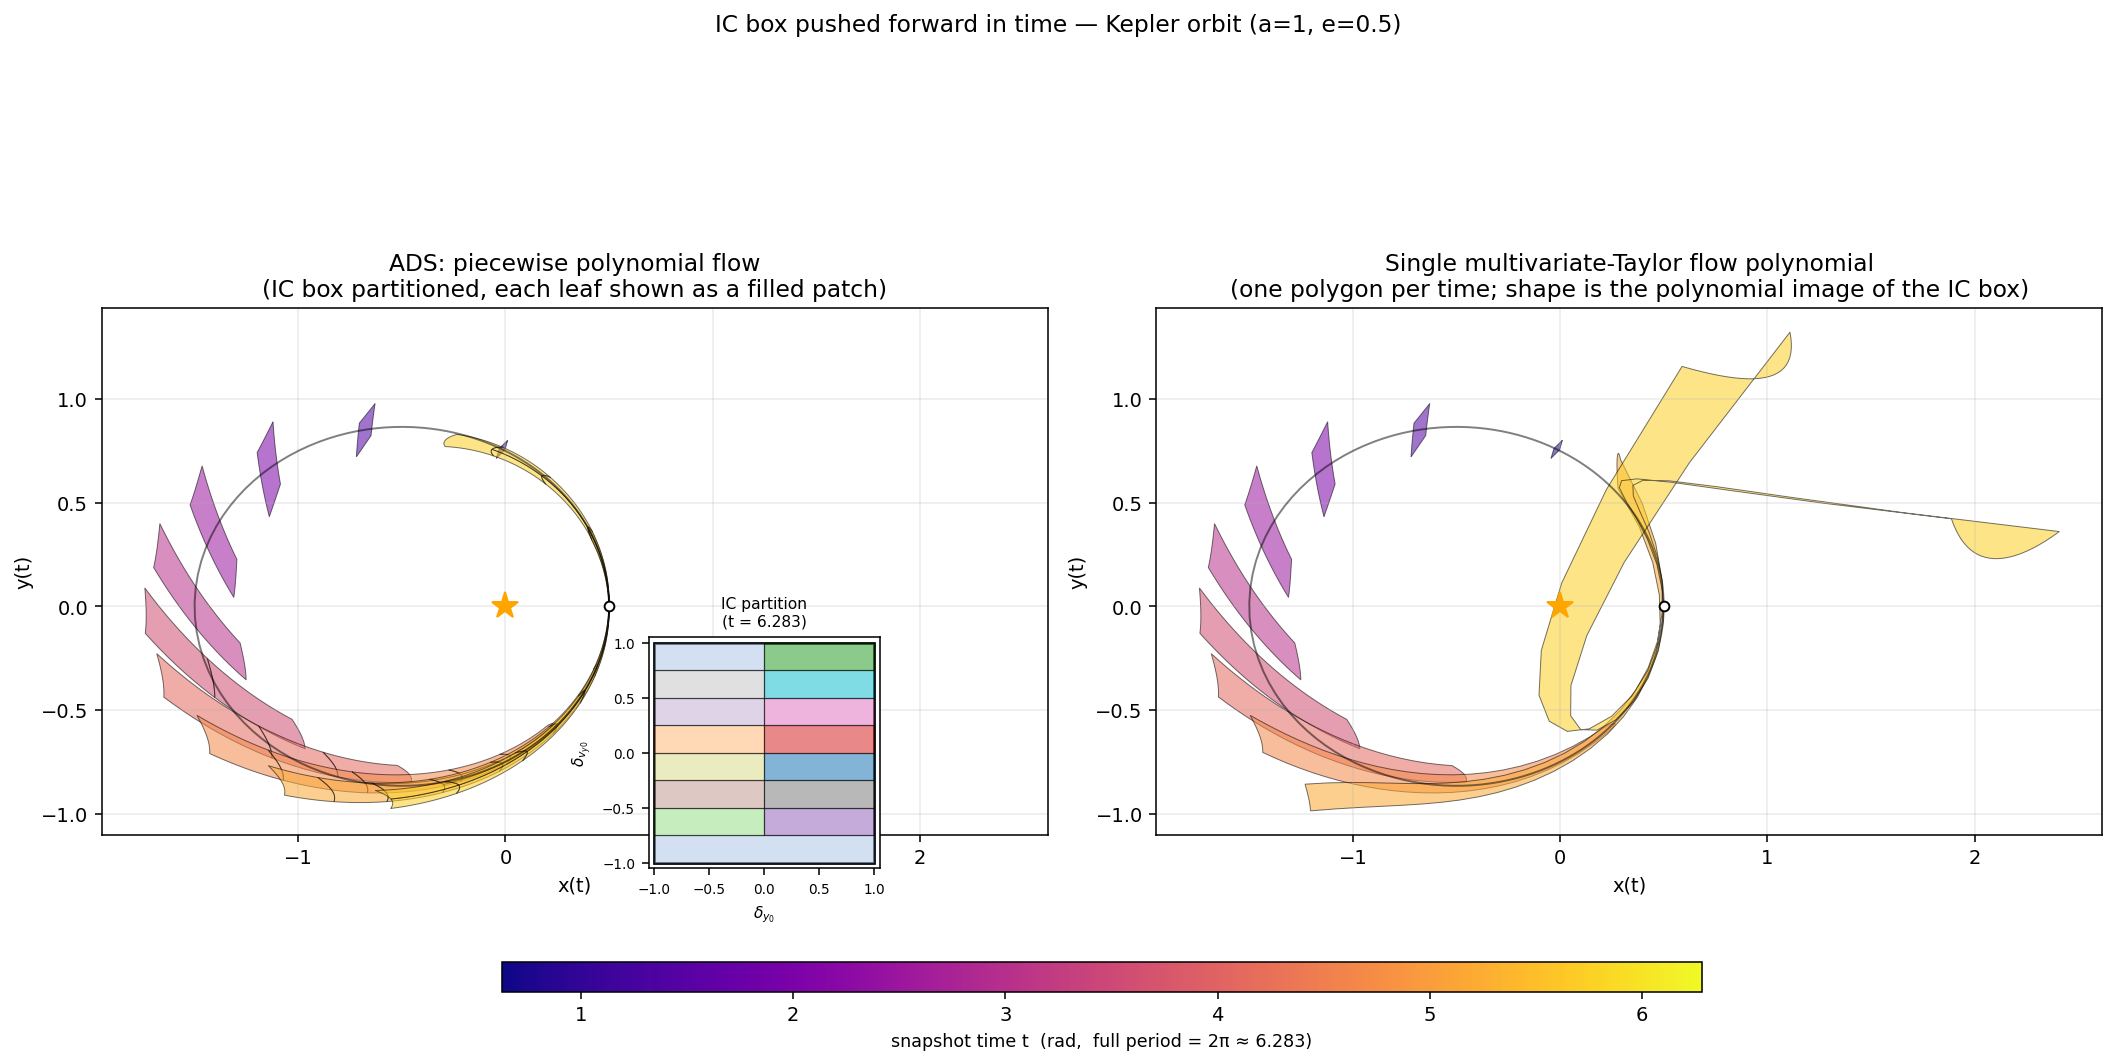
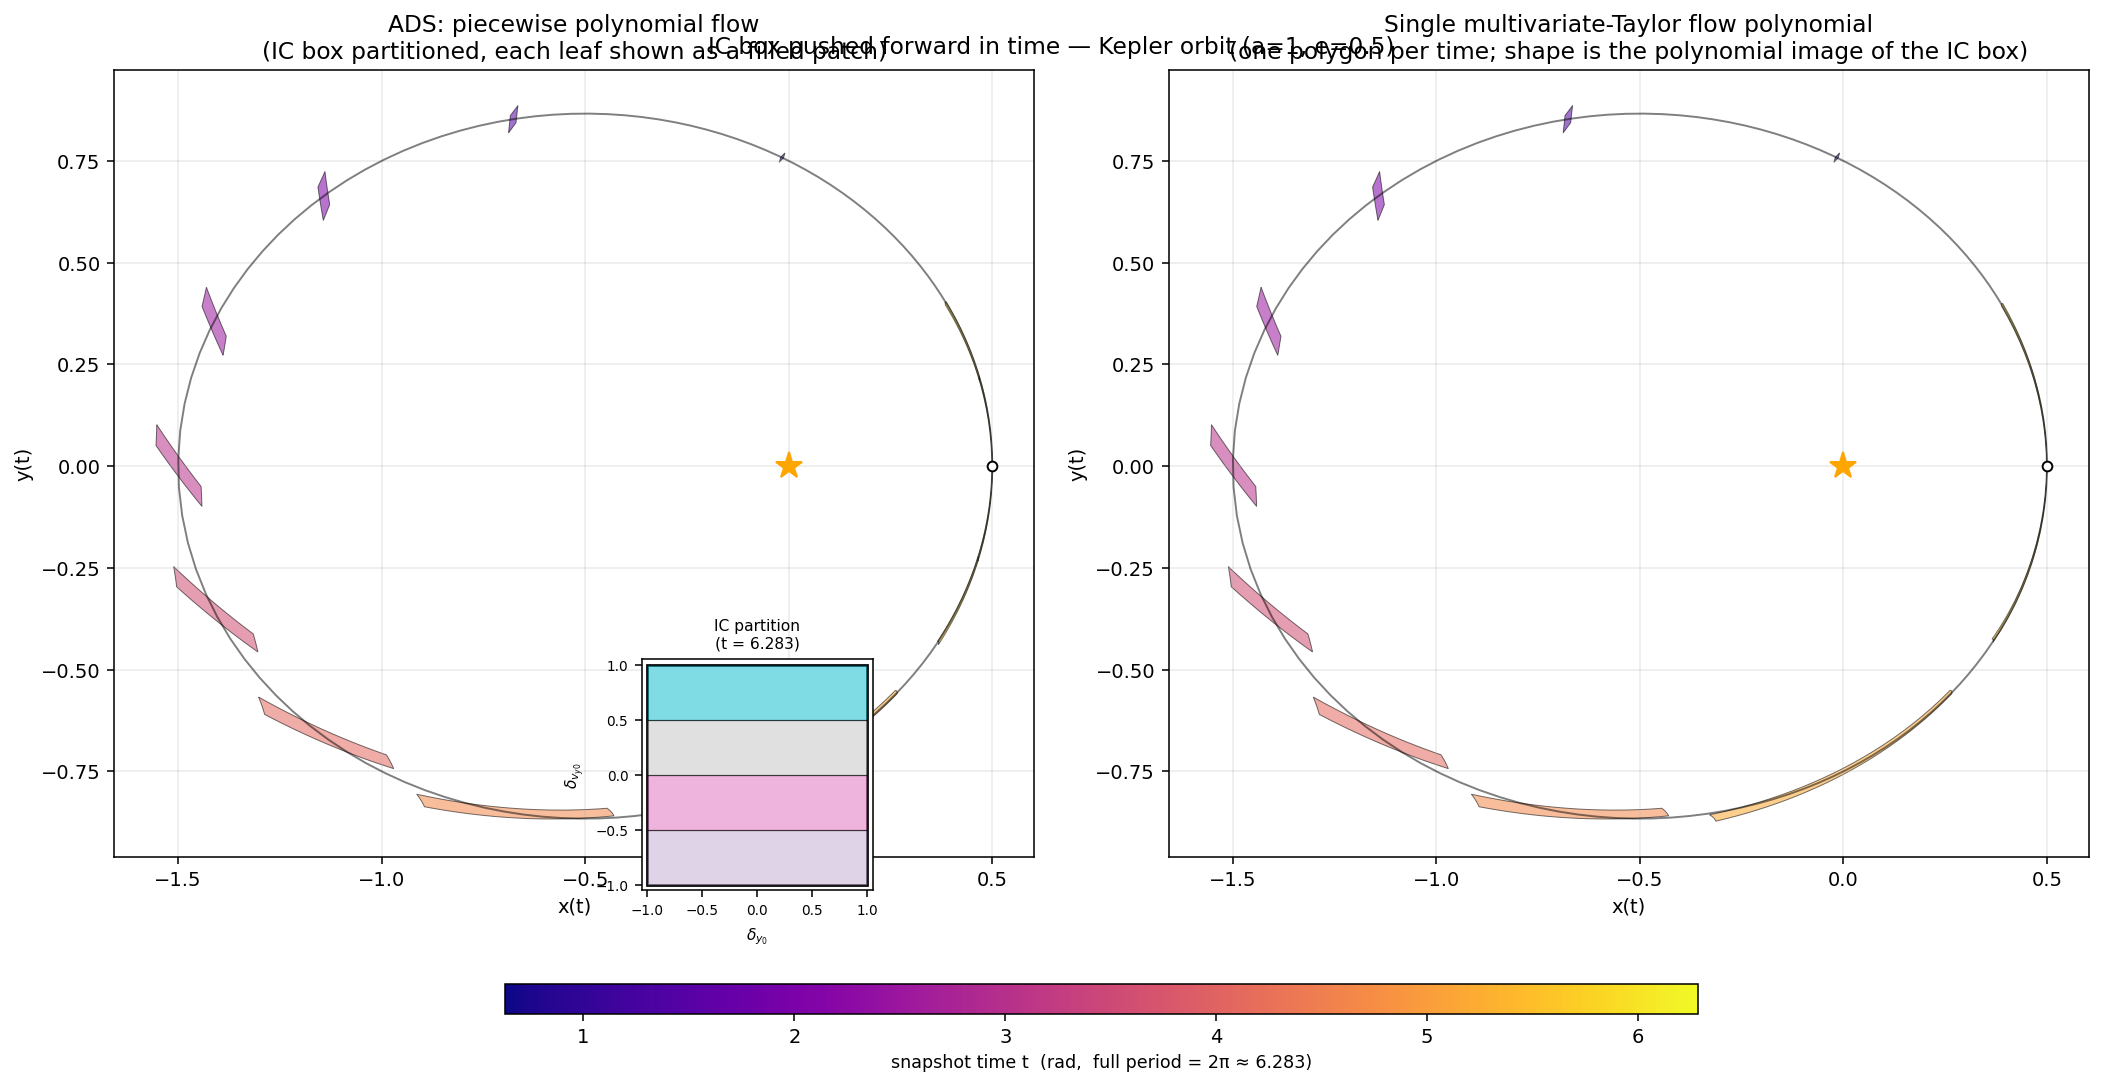
Auto-zoom phase-space panels in plotBoxOnSplit; refresh figures
The pushforward of the small 2-D IC box returns close to periapsis
after one orbital period, so a fixed full-orbit aspect-equal view made
the polygons invisible.  The phase-space and converged-ADS panels now
auto-zoom on the polygon data with a 10% margin and only draw the
primary marker if (0, 0) is inside the window.  The reference orbit
is still drawn as context where it intersects the window.

Also re-runs the example over one full orbit and re-renders all three
figures (ellipticOrbit.png, ellipticBoxEvolution.png,
ellipticBoxOnSplit.png).

diff --git a/examples/plotBoxOnSplit.py b/examples/plotBoxOnSplit.py
@@ -114,13 +114,32 @@ def main() -> None:
     ax_ic.grid(True, alpha=0.25)
 
     # ----- Phase-space view -----------------------------------------------
-    ax_ph.plot(ref["x"], ref["y"], "k-", lw=1.0, alpha=0.5, label="reference orbit")
-    ax_ph.plot([0.0], [0.0], "*", color="orange", ms=14, zorder=5, label="primary")
-
     flow_poly = _polygon(flow_img)
+    all_x = [flow_poly[:, 0]]
+    all_y = [flow_poly[:, 1]]
+    for sid in split_ids:
+        sel = split_ph["split_idx"] == sid
+        for role in ("parent", "left", "right"):
+            r = sel & (split_ph["role"] == role)
+            if np.any(r):
+                poly = _polygon(split_ph[r])
+                all_x.append(poly[:, 0])
+                all_y.append(poly[:, 1])
+    all_x = np.concatenate(all_x)
+    all_y = np.concatenate(all_y)
+    pad_x = 0.10 * (all_x.max() - all_x.min() + 1e-12)
+    pad_y = 0.10 * (all_y.max() - all_y.min() + 1e-12)
+    xlim = (all_x.min() - pad_x, all_x.max() + pad_x)
+    ylim = (all_y.min() - pad_y, all_y.max() + pad_y)
+
+    # Reference orbit + primary only if visible in the zoomed window.
+    ax_ph.plot(ref["x"], ref["y"], "k-", lw=1.0, alpha=0.4, label="reference orbit")
+    if xlim[0] <= 0.0 <= xlim[1] and ylim[0] <= 0.0 <= ylim[1]:
+        ax_ph.plot([0.0], [0.0], "*", color="orange", ms=14, zorder=5, label="primary")
+
     ax_ph.fill(flow_poly[:, 0], flow_poly[:, 1],
                facecolor="lightgrey", edgecolor="dimgrey",
-               alpha=0.35, linewidth=0.8, zorder=1,
+               alpha=0.45, linewidth=0.9, zorder=1,
                label="single flow polygon (no split)")
 
     for idx, sid in enumerate(split_ids):
@@ -132,12 +151,14 @@ def main() -> None:
             poly = _polygon(split_ph[r])
             if role == "parent":
                 ax_ph.plot(poly[:, 0], poly[:, 1], color=colors[idx],
-                           linewidth=0.8, alpha=0.7, zorder=2)
+                           linewidth=1.0, alpha=0.8, zorder=2)
             else:
                 ax_ph.fill(poly[:, 0], poly[:, 1],
                            facecolor=colors[idx], alpha=0.30,
                            edgecolor=colors[idx], linewidth=0.6, zorder=3)
 
+    ax_ph.set_xlim(xlim)
+    ax_ph.set_ylim(ylim)
     ax_ph.set_aspect("equal", adjustable="box")
     ax_ph.set_xlabel("x(t = T_orbit)")
     ax_ph.set_ylabel("y(t = T_orbit)")
@@ -157,22 +178,40 @@ def main() -> None:
         cb.set_label("split index", fontsize=9)
 
     # ----- Converged ADS leaves -------------------------------------------
-    ax_fin.plot(ref["x"], ref["y"], "k-", lw=1.0, alpha=0.5, label="reference orbit")
-    ax_fin.plot([0.0], [0.0], "*", color="orange", ms=14, zorder=5, label="primary")
+    leaf_ids = sorted(set(final["leaf_idx"].astype(int).tolist()))
+
+    leaf_x = [flow_poly[:, 0]]
+    leaf_y = [flow_poly[:, 1]]
+    for li in leaf_ids:
+        sel = final["leaf_idx"] == li
+        poly = _polygon(final[sel])
+        leaf_x.append(poly[:, 0])
+        leaf_y.append(poly[:, 1])
+    leaf_x = np.concatenate(leaf_x)
+    leaf_y = np.concatenate(leaf_y)
+    pad_x = 0.10 * (leaf_x.max() - leaf_x.min() + 1e-12)
+    pad_y = 0.10 * (leaf_y.max() - leaf_y.min() + 1e-12)
+    fxlim = (leaf_x.min() - pad_x, leaf_x.max() + pad_x)
+    fylim = (leaf_y.min() - pad_y, leaf_y.max() + pad_y)
+
+    ax_fin.plot(ref["x"], ref["y"], "k-", lw=1.0, alpha=0.4, label="reference orbit")
+    if fxlim[0] <= 0.0 <= fxlim[1] and fylim[0] <= 0.0 <= fylim[1]:
+        ax_fin.plot([0.0], [0.0], "*", color="orange", ms=14, zorder=5, label="primary")
     ax_fin.fill(flow_poly[:, 0], flow_poly[:, 1],
                 facecolor="lightgrey", edgecolor="dimgrey",
-                alpha=0.35, linewidth=0.8, zorder=1,
+                alpha=0.45, linewidth=0.9, zorder=1,
                 label="single flow polygon")
 
-    leaf_ids = sorted(set(final["leaf_idx"].astype(int).tolist()))
     leaf_cmap = plt.get_cmap("tab20")
     for k, li in enumerate(leaf_ids):
         sel = final["leaf_idx"] == li
         poly = _polygon(final[sel])
         ax_fin.fill(poly[:, 0], poly[:, 1],
-                    facecolor=leaf_cmap(k % 20), alpha=0.55,
-                    edgecolor="black", linewidth=0.5, zorder=3)
+                    facecolor=leaf_cmap(k % 20), alpha=0.65,
+                    edgecolor="black", linewidth=0.6, zorder=3)
 
+    ax_fin.set_xlim(fxlim)
+    ax_fin.set_ylim(fylim)
     ax_fin.set_aspect("equal", adjustable="box")
     ax_fin.set_xlabel("x(t = T_orbit)")
     ax_fin.set_ylabel("y(t = T_orbit)")
